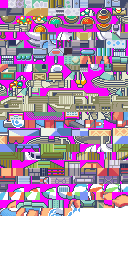
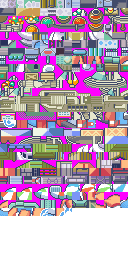
small correction to tiles secondary

diff --git a/tiles_secondary.py b/tiles_secondary.py
@@ -37,12 +37,12 @@ def collect_unique_tiles(all_tiles):
     unique_tiles = []
     
     # 1. Prepare the mandatory magenta tile and its key
-    magenta_tile = create_magenta_tile()
-    magenta_key = canonical_tile_key(magenta_tile)
+    #magenta_tile = create_magenta_tile()
+    #magenta_key = canonical_tile_key(magenta_tile)
     
     # Pre-populate seen with the magenta key so we don't add it again later
-    seen.add(magenta_key)
-    unique_tiles.append(magenta_tile)
+    #seen.add(magenta_key)
+    #unique_tiles.append(magenta_tile)
 
     for tile in all_tiles:
         key = canonical_tile_key(tile)
@@ -145,7 +145,8 @@ def create_tileset_library(tiles_png_path, palettes):
         version.putpalette(pal_data)
         rgba = version.convert("RGBA")
         new_pixels = [
-			(r, g, b, 255) if idx == 0 else (r, g, b, a)
+			#(r, g, b, 255) if idx == 0 else (r, g, b, a)
+			(r, g, b, a)
 			for idx, (r, g, b, a) in zip(base_img.getdata(), rgba.getdata())
 		]
 
